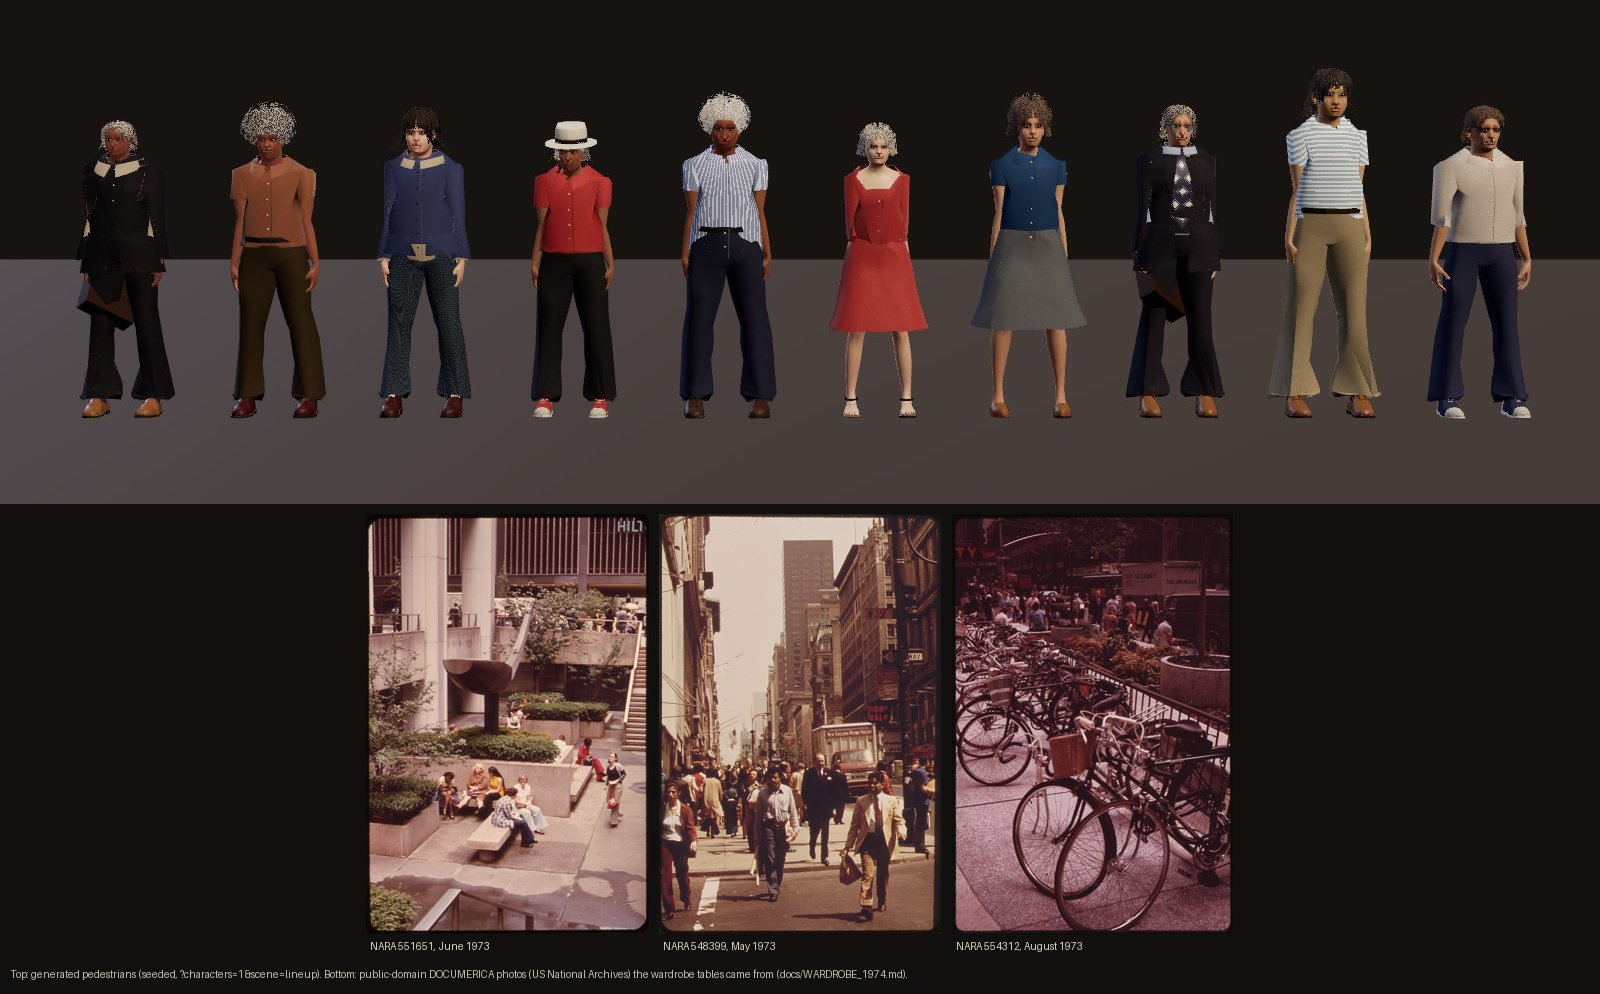
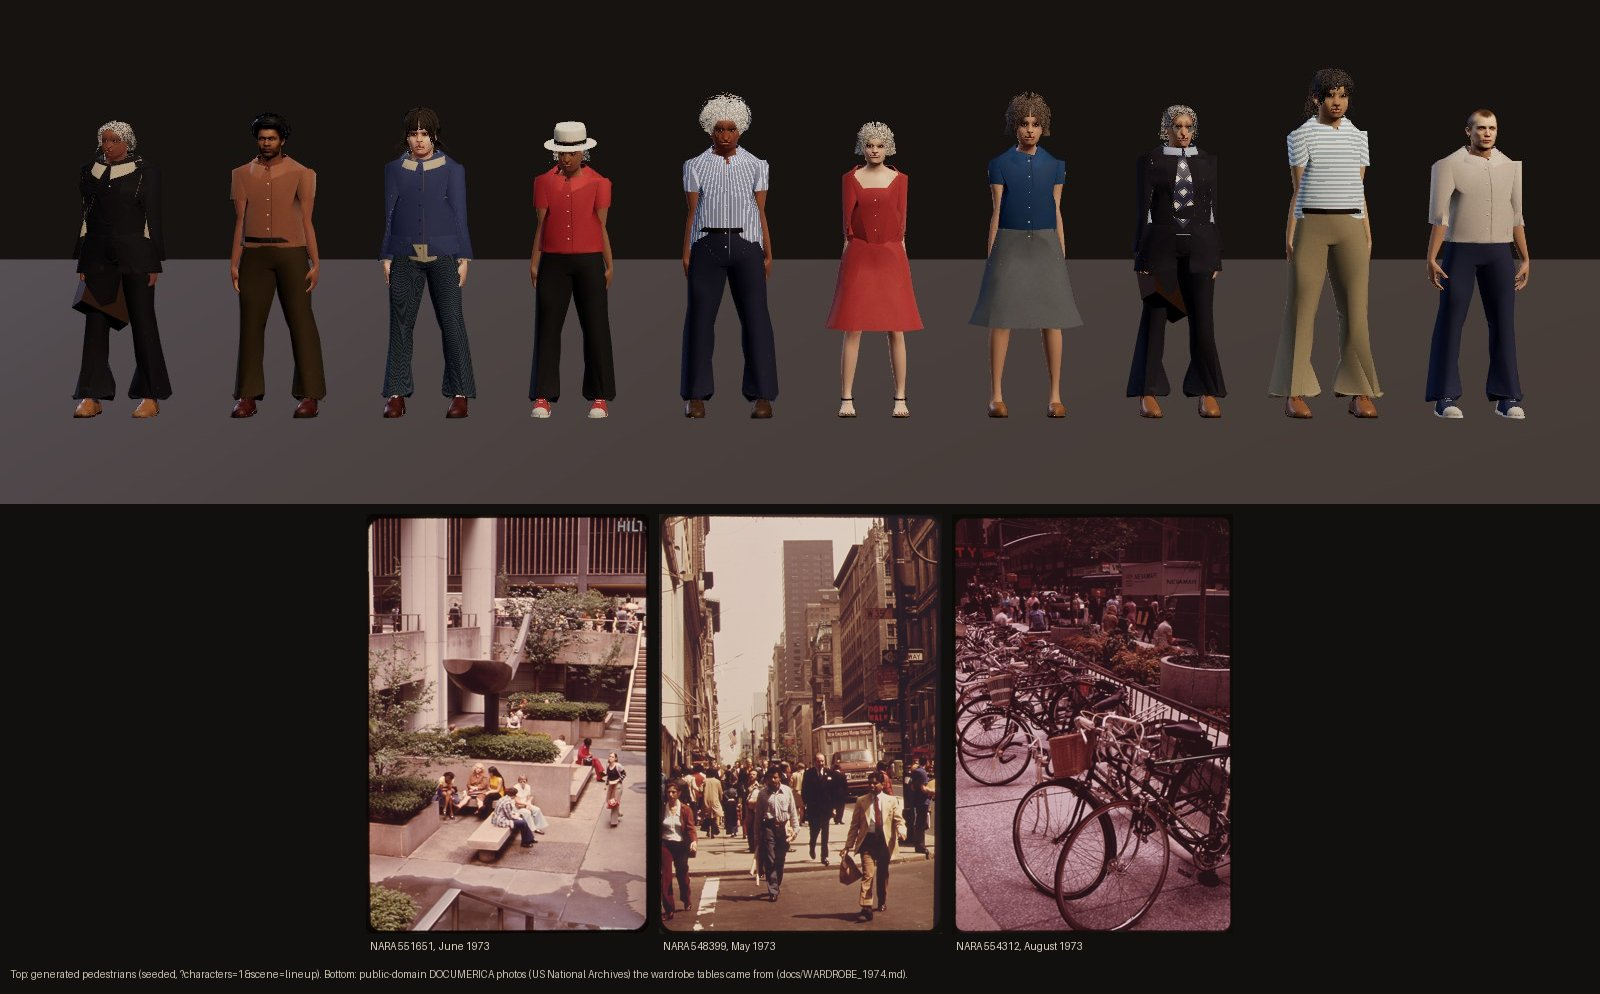
Characters: pool heads gated on CIELAB distance of the tinted head vs body tone; tone check searches the hand window
Claude-Session: https://claude.ai/code/session_01H4ZSJ9HHC3JhC3uZj5pVfG

diff --git a/src/characters/heads/rocketbox.ts b/src/characters/heads/rocketbox.ts
@@ -63,8 +63,11 @@ export class HeadLibrary {
       const ancGap = Math.abs(anc[0] - t.anc[0]) + Math.abs(anc[1] - t.anc[1]) + Math.abs(anc[2] - t.anc[2]);
       const hl = h.skinRGB.map(toLin);
       const toneRatio = Math.max(...[0, 1, 2].map((i) => Math.abs(Math.log((tone[i] + 0.01) / (hl[i] + 0.01)))));
-      // tight gates: the tint is clamped to ±25%, so anything further apart would leave a tone break
-      if (ancGap > 0.6 || toneRatio > Math.log(1.45) || ageGap > 15) continue;
+      // gate on what the player will see: the head's skin after the clamped tint vs the body's
+      // tone, in CIELAB (an RGB ratio let hue/chroma breaks through on darker heads)
+      const tint = tintFor(h, app.skin.tone), tinted = hl.map((c, i) => c * tint[i]);
+      const dE = labDist(tinted, tone);
+      if (ancGap > 0.6 || dE > 7 || ageGap > 15) continue;
       const hairGap = hairCat(app.hair.style) === t.hair ? 0 : 0.3;
       const score = ancGap * 2 + toneRatio * 2 + ageGap / 10 + hairGap;
       if (score < bestScore) { bestScore = score; best = h.id; }
@@ -74,6 +77,16 @@ export class HeadLibrary {
 }
 
 const hexRGB = (h: string) => [1, 3, 5].map((i) => parseInt(h.slice(i, i + 2), 16));
+/** CIE76 distance between two linear-sRGB colours (0..1). */
+function labDist(a: number[], b: number[]) {
+  const lab = (c: number[]) => {
+    const x = (0.4124 * c[0] + 0.3576 * c[1] + 0.1805 * c[2]) / 0.95047, y = 0.2126 * c[0] + 0.7152 * c[1] + 0.0722 * c[2], z = (0.0193 * c[0] + 0.1192 * c[1] + 0.9505 * c[2]) / 1.08883;
+    const f = (t: number) => (t > 0.008856 ? Math.cbrt(t) : 7.787 * t + 16 / 116);
+    return [116 * f(y) - 16, 500 * (f(x) - f(y)), 200 * (f(y) - f(z))];
+  };
+  const p = lab(a), q = lab(b);
+  return Math.hypot(p[0] - q[0], p[1] - q[1], p[2] - q[2]);
+}
 function hairCat(style: string): HeadTag['hair'] {
   if (style === 'bald' || style === 'buzz') return 'bald';
   if (/afro|curly|setCurls/.test(style)) return 'curly';

diff --git a/tools/characters/tone-check.py b/tools/characters/tone-check.py
@@ -3,6 +3,7 @@
 Reads <shot>.jpg|png and <shot>.json (report.toneProbes: screen positions of a cheek, the side of
 the neck and the back of the right hand per character, written by the test scenes), samples a
 median patch at each probe and compares them in CIELAB:
+  (hand: the best skin match in a small window around the probe, since hands are a few px wide)
   dE00      CIEDE2000 between the patches (includes lighting: cheek and hand face different ways)
   dC        chroma/hue distance (a*, b* only): a tone or undertone mismatch, mostly lighting-free
   dL        lightness difference
@@ -69,7 +70,18 @@ for base in sys.argv[1:]:
     print(f'\n{os.path.basename(base)}')
     for i, pr in enumerate(probes):
         if not all(0 < pr[k][0] < 1 and 0 < pr[k][1] < 1 for k in ('cheek', 'neck', 'hand')): continue
-        lab = {k: srgb_to_lab(patch(im, pr[k], r)) for k in ('cheek', 'neck', 'hand')}
+        lab = {k: srgb_to_lab(patch(im, pr[k], r)) for k in ('cheek', 'neck')}
+        # hands are a few pixels wide on full-figure shots: search a small window around the probe
+        # for the small patch closest in chroma to the cheek (it can only *hide* a mismatch if
+        # clothing happens to match the face; the annotated image shows what was sampled)
+        best = None
+        for dx in range(-3 * r, 3 * r + 1, max(1, r // 2)):
+            for dy in range(-3 * r, 3 * r + 1, max(1, r // 2)):
+                p = (pr['hand'][0] + dx / im.width, pr['hand'][1] + dy / im.height)
+                l = srgb_to_lab(patch(im, p, 1))
+                dc = math.hypot(l[1] - lab['cheek'][1], l[2] - lab['cheek'][2]) + abs(l[0] - lab['cheek'][0]) * 0.25
+                if best is None or dc < best[0]: best = (dc, l, p)
+        lab['hand'] = best[1]; pr = {**pr, 'hand': list(best[2])}
         for k, col in (('cheek', 'yellow'), ('neck', 'cyan'), ('hand', 'magenta')):
             x, y = pr[k][0] * im.width, pr[k][1] * im.height
             d.rectangle((x - r, y - r, x + r, y + r), outline=col)
